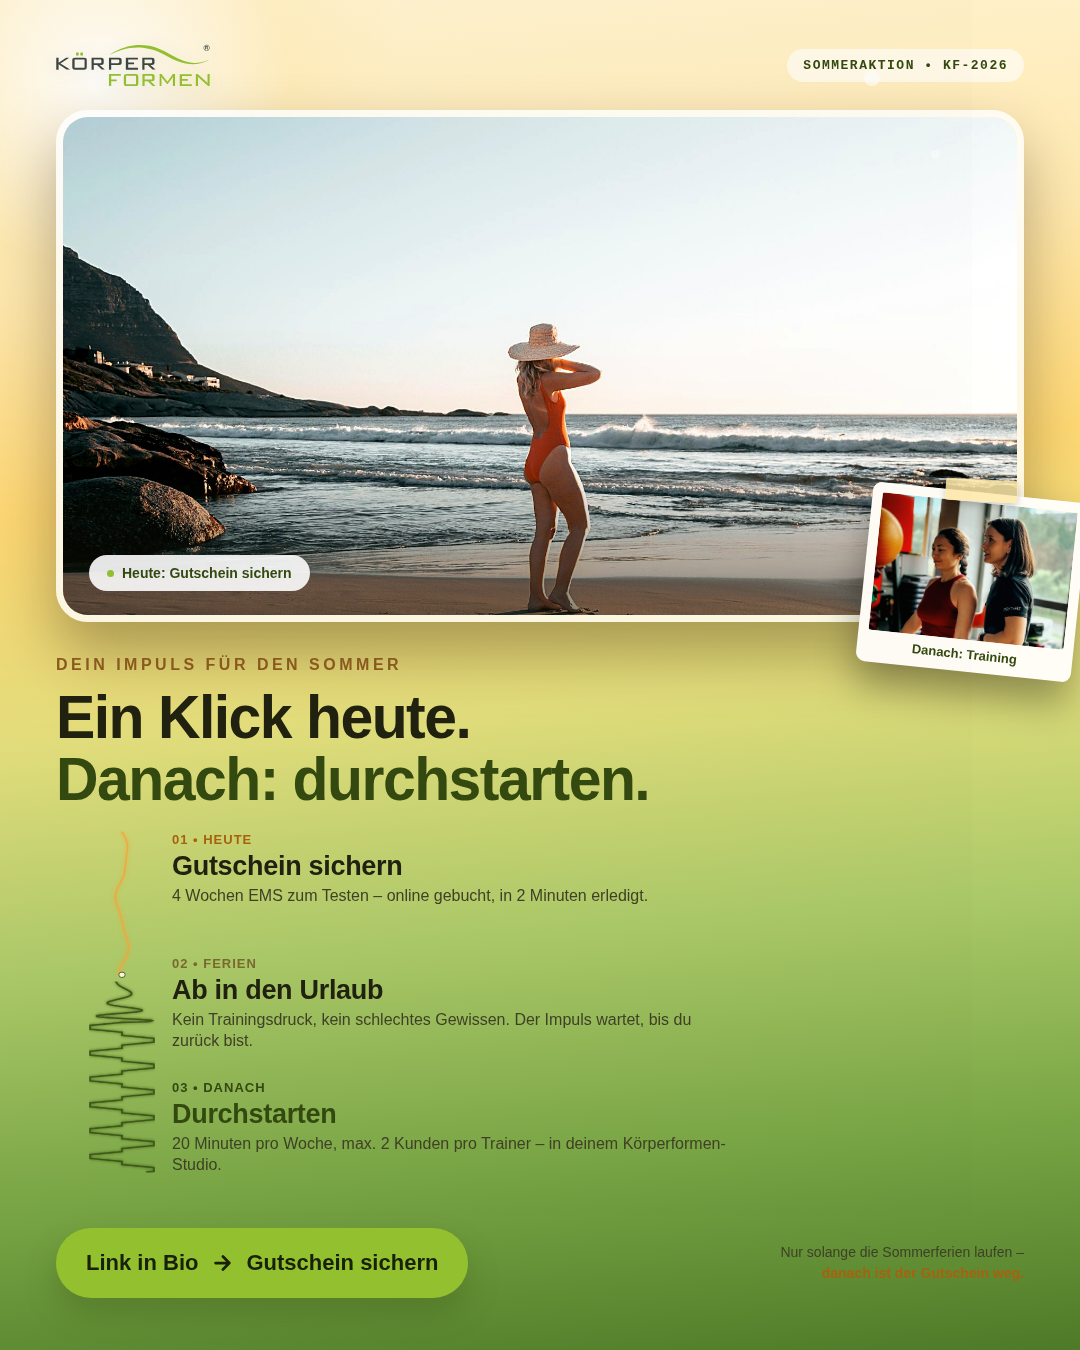
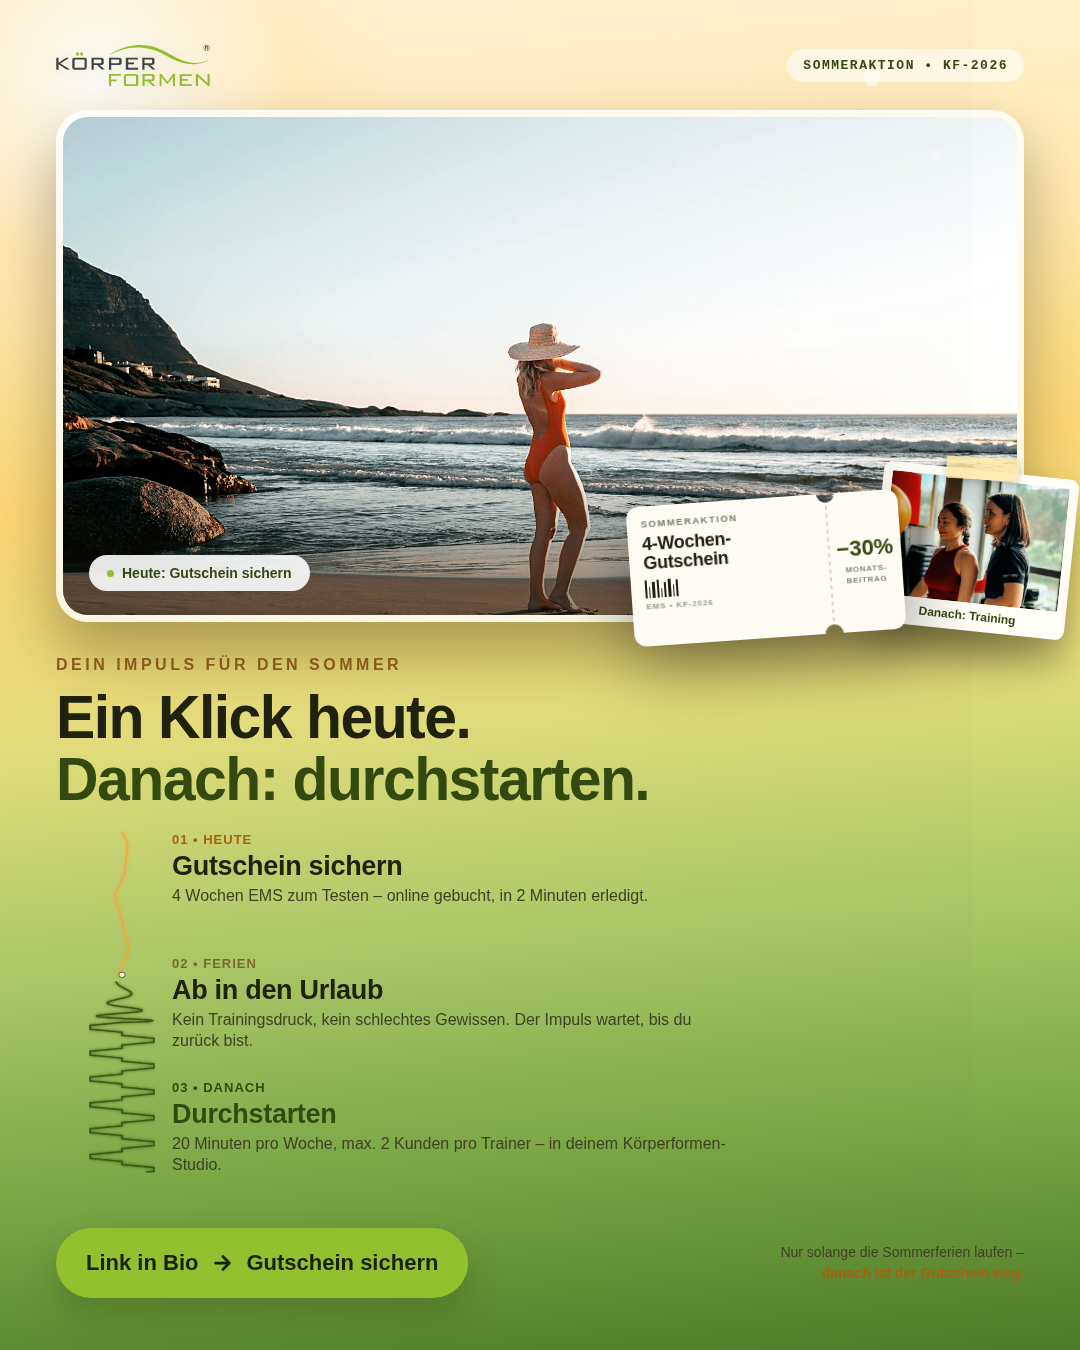
Creatives v7: Gutschein als physisches Ticket-Objekt in der Szene
Fügt allen drei Foto-Assets (Ad A, Social-Post, Landingpage-Hero) ein
gestaltetes Gutschein-Ticket hinzu: abgerundete Karte mit echter
Perforation (Rundungs-Ausstanzung per SVG-Maske), gestrichelter
Trennlinie, Barcode-Grafik und '-30%'-Abriss-Stub – liegt überlappend
mit dem angehefteten Trainingsfoto in der Szene, sodass die Idee
'hier gibt es einen Gutschein' sofort visuell verständlich ist statt
nur im Text behauptet zu werden.

Ad B bleibt unverändert (Geräte-Display-Konzept ohne Foto-Szene).

Claude-Session: https://claude.ai/code/session_01JznXpo8D9juT6Vm1g7afRx

Changed region(s): [[0.5806, 0.3111, 1.0, 0.5289]]

diff --git a/kampagnen/creatives/ad-a-boarding-pass.html b/kampagnen/creatives/ad-a-boarding-pass.html
@@ -31,12 +31,27 @@
   .badge .dot { width:7px; height:7px; border-radius:50%; background:var(--signal); box-shadow:0 0 8px var(--signal); }
 
   /* pinned snapshot */
-  .pin-wrap { position:absolute; top:140px; right:68px; width:300px; z-index:6; transform:rotate(6.5deg); }
-  .pin-card { background:#FFFDF6; border-radius:10px; padding:12px 12px 42px; box-shadow:0 26px 44px rgba(0,0,0,.4), 0 2px 0 rgba(255,255,255,.5) inset; }
-  .pin-card img { width:100%; height:196px; object-fit:cover; object-position:50% 22%; display:block; border-radius:2px; }
-  .pin-card .cap { position:absolute; left:22px; right:22px; bottom:14px; font-size:15px; font-weight:bold; color:var(--signal-deep); text-align:center; letter-spacing:.2px; }
-  .pin-tape { position:absolute; top:-16px; left:50%; transform:translateX(-50%) rotate(-3deg); width:96px; height:30px;
+  .pin-wrap { position:absolute; top:118px; right:96px; width:254px; z-index:6; transform:rotate(7deg); }
+  .pin-card { background:#FFFDF6; border-radius:10px; padding:11px 11px 38px; box-shadow:0 26px 44px rgba(0,0,0,.4), 0 2px 0 rgba(255,255,255,.5) inset; }
+  .pin-card img { width:100%; height:166px; object-fit:cover; object-position:50% 22%; display:block; border-radius:2px; }
+  .pin-card .cap { position:absolute; left:20px; right:20px; bottom:12px; font-size:14px; font-weight:bold; color:var(--signal-deep); text-align:center; letter-spacing:.2px; }
+  .pin-tape { position:absolute; top:-15px; left:50%; transform:translateX(-50%) rotate(-3deg); width:86px; height:27px;
     background:rgba(255,233,168,.85); box-shadow:0 4px 8px rgba(0,0,0,.2); border-radius:2px; }
+
+  /* voucher / ticket */
+  .voucher { position:absolute; top:322px; right:40px; width:390px; height:196px; z-index:7;
+    transform:rotate(-4.5deg); filter:drop-shadow(0 24px 40px rgba(0,0,0,.45)); }
+  .voucher-bg { position:absolute; inset:0; }
+  .v-main { position:absolute; left:0; top:0; width:288px; height:100%; padding:17px 20px; color:var(--ink); }
+  .v-kick { font-size:12px; letter-spacing:2px; font-weight:bold; color:#7c7e68; margin-bottom:9px; }
+  .v-title { font-size:27px; font-weight:800; line-height:1.05; letter-spacing:-.5px; margin-bottom:12px; }
+  .v-barcode { display:flex; align-items:flex-end; gap:2.4px; height:28px; }
+  .v-barcode i { display:block; background:var(--ink); width:2.6px; }
+  .v-code { font-size:10px; letter-spacing:1.4px; color:#9a9c88; margin-top:5px; font-weight:bold; }
+  .v-stub { position:absolute; left:288px; top:0; width:102px; height:100%; display:flex; flex-direction:column;
+    align-items:center; justify-content:center; text-align:center; }
+  .v-pct { font-size:32px; font-weight:800; color:var(--signal-deep); line-height:1; }
+  .v-sub { font-size:10px; letter-spacing:1px; color:#8a8c78; margin-top:7px; line-height:1.35; font-weight:bold; }
 
   .content { position:absolute; left:0; right:0; bottom:0; z-index:5; padding:0 56px 52px; }
   .kick { font-size:16px; letter-spacing:4px; color:var(--gold); font-weight:bold; margin-bottom:14px; display:flex; align-items:center; gap:10px; }
@@ -78,6 +93,37 @@
       <div class="pin-tape"></div>
       <img src="foto-training.jpg" alt="Personal Training bei Körperformen" style="object-position:50% 30%">
       <div class="cap">Danach: Training</div>
+    </div>
+  </div>
+
+  <div class="voucher">
+    <svg class="voucher-bg" viewBox="0 0 390 196" width="390" height="196">
+      <defs>
+        <mask id="tmaskA">
+          <rect x="0" y="0" width="390" height="196" rx="16" fill="white"/>
+          <circle cx="288" cy="0" r="12" fill="black"/>
+          <circle cx="288" cy="196" r="12" fill="black"/>
+        </mask>
+      </defs>
+      <rect x="0" y="0" width="390" height="196" rx="16" fill="#FFFDF6" mask="url(#tmaskA)"/>
+      <line x1="288" y1="18" x2="288" y2="178" stroke="#cfd0ba" stroke-width="2" stroke-dasharray="5 5"/>
+    </svg>
+    <div class="v-main">
+      <div class="v-kick">SOMMERAKTION &#8226; KF-2026</div>
+      <div class="v-title">4-Wochen-<br>Gutschein</div>
+      <div class="v-barcode">
+        <i style="height:100%"></i><i style="height:60%"></i><i style="height:90%;width:4.4px"></i>
+        <i style="height:100%"></i><i style="height:50%"></i><i style="height:80%"></i>
+        <i style="height:100%;width:4.4px"></i><i style="height:65%"></i><i style="height:95%"></i>
+        <i style="height:55%"></i><i style="height:100%"></i><i style="height:70%"></i>
+        <i style="height:90%"></i><i style="height:100%;width:4.4px"></i><i style="height:60%"></i>
+        <i style="height:85%"></i><i style="height:100%"></i><i style="height:50%"></i>
+      </div>
+      <div class="v-code">EMS &#8226; EINLÖSBAR IM STUDIO</div>
+    </div>
+    <div class="v-stub">
+      <div class="v-pct">&minus;30%</div>
+      <div class="v-sub">MONATS-<br>BEITRAG</div>
     </div>
   </div>
 

diff --git a/kampagnen/creatives/landingpage-hero.html b/kampagnen/creatives/landingpage-hero.html
@@ -53,12 +53,27 @@
     box-shadow:0 8px 18px rgba(40,30,10,.25); }
 
   /* pinned snapshot */
-  .pin-wrap { position:absolute; left:760px; top:478px; width:236px; z-index:5; transform:rotate(-7deg); }
-  .pin-card { background:#FFFDF6; border-radius:9px; padding:10px 10px 34px; box-shadow:0 24px 40px rgba(0,0,0,.35), 0 2px 0 rgba(255,255,255,.5) inset; }
-  .pin-card img { width:100%; height:150px; object-fit:cover; object-position:50% 24%; display:block; border-radius:2px; }
-  .pin-card .cap { position:absolute; left:16px; right:16px; bottom:11px; font-size:13px; font-weight:bold; color:var(--signal-deep); text-align:center; }
-  .pin-tape { position:absolute; top:-14px; left:50%; transform:translateX(-50%) rotate(3deg); width:78px; height:24px;
+  .pin-wrap { position:absolute; left:756px; top:452px; width:210px; z-index:5; transform:rotate(-8deg); }
+  .pin-card { background:#FFFDF6; border-radius:9px; padding:9px 9px 30px; box-shadow:0 24px 40px rgba(0,0,0,.35), 0 2px 0 rgba(255,255,255,.5) inset; }
+  .pin-card img { width:100%; height:132px; object-fit:cover; object-position:50% 24%; display:block; border-radius:2px; }
+  .pin-card .cap { position:absolute; left:14px; right:14px; bottom:9px; font-size:12px; font-weight:bold; color:var(--signal-deep); text-align:center; }
+  .pin-tape { position:absolute; top:-13px; left:50%; transform:translateX(-50%) rotate(3deg); width:70px; height:22px;
     background:rgba(255,233,168,.85); box-shadow:0 3px 7px rgba(0,0,0,.2); border-radius:2px; }
+
+  /* voucher / ticket */
+  .voucher { position:absolute; left:900px; top:468px; width:308px; height:158px; z-index:6;
+    transform:rotate(4deg); filter:drop-shadow(0 20px 34px rgba(0,0,0,.4)); }
+  .voucher-bg { position:absolute; inset:0; }
+  .v-main { position:absolute; left:0; top:0; width:228px; height:100%; padding:13px 15px; color:var(--ink); }
+  .v-kick { font-size:10px; letter-spacing:1.6px; font-weight:bold; color:#7c7e68; margin-bottom:6px; }
+  .v-title { font-size:20px; font-weight:800; line-height:1.05; letter-spacing:-.4px; margin-bottom:8px; }
+  .v-barcode { display:flex; align-items:flex-end; gap:2px; height:20px; }
+  .v-barcode i { display:block; background:var(--ink); width:2px; }
+  .v-code { font-size:8.5px; letter-spacing:1px; color:#9a9c88; margin-top:4px; font-weight:bold; }
+  .v-stub { position:absolute; left:228px; top:0; width:80px; height:100%; display:flex; flex-direction:column;
+    align-items:center; justify-content:center; text-align:center; }
+  .v-pct { font-size:25px; font-weight:800; color:var(--signal-deep); line-height:1; }
+  .v-sub { font-size:8.5px; letter-spacing:.8px; color:#8a8c78; margin-top:5px; line-height:1.3; font-weight:bold; }
 
   .wave-wrap { position:absolute; left:70px; right:70px; bottom:72px; height:68px; z-index:2; }
   .wave-wrap svg { width:100%; height:100%; display:block; overflow:visible; }
@@ -111,6 +126,35 @@
       <div class="pin-tape"></div>
       <img src="foto-training.jpg" alt="Personal Training bei Körperformen" style="object-position:50% 28%">
       <div class="cap">Danach: Training</div>
+    </div>
+  </div>
+
+  <div class="voucher">
+    <svg class="voucher-bg" viewBox="0 0 308 158" width="308" height="158">
+      <defs>
+        <mask id="tmaskL">
+          <rect x="0" y="0" width="308" height="158" rx="13" fill="white"/>
+          <circle cx="228" cy="0" r="10" fill="black"/>
+          <circle cx="228" cy="158" r="10" fill="black"/>
+        </mask>
+      </defs>
+      <rect x="0" y="0" width="308" height="158" rx="13" fill="#FFFDF6" mask="url(#tmaskL)"/>
+      <line x1="228" y1="14" x2="228" y2="144" stroke="#cfd0ba" stroke-width="1.6" stroke-dasharray="4 4"/>
+    </svg>
+    <div class="v-main">
+      <div class="v-kick">SOMMERAKTION</div>
+      <div class="v-title">4-Wochen-<br>Gutschein</div>
+      <div class="v-barcode">
+        <i style="height:100%"></i><i style="height:60%"></i><i style="height:90%;width:3.4px"></i>
+        <i style="height:100%"></i><i style="height:50%"></i><i style="height:80%"></i>
+        <i style="height:100%;width:3.4px"></i><i style="height:65%"></i><i style="height:95%"></i>
+        <i style="height:55%"></i><i style="height:100%"></i><i style="height:70%"></i>
+      </div>
+      <div class="v-code">EMS &#8226; KF-2026</div>
+    </div>
+    <div class="v-stub">
+      <div class="v-pct">&minus;30%</div>
+      <div class="v-sub">MONATS-<br>BEITRAG</div>
     </div>
   </div>
 

diff --git a/kampagnen/creatives/social-sommer-plan.html b/kampagnen/creatives/social-sommer-plan.html
@@ -37,10 +37,25 @@
     border-radius:999px; padding:10px 18px; font-size:14px; font-weight:bold; color:#FFF6E2; }
 
   /* pinned snapshot */
-  .pin-wrap { position:absolute; left:864px; top:492px; width:216px; z-index:5; transform:rotate(6deg); }
-  .pin-card { background:#FFFDF6; border-radius:9px; padding:10px 10px 32px; box-shadow:0 22px 38px rgba(0,0,0,.35), 0 2px 0 rgba(255,255,255,.5) inset; }
-  .pin-card img { width:100%; height:138px; object-fit:cover; object-position:50% 28%; display:block; border-radius:2px; }
-  .pin-card .cap { position:absolute; left:14px; right:14px; bottom:10px; font-size:13px; font-weight:bold; color:var(--signal-deep); text-align:center; }
+  .pin-wrap { position:absolute; left:876px; top:470px; width:196px; z-index:5; transform:rotate(6deg); }
+  .pin-card { background:#FFFDF6; border-radius:9px; padding:9px 9px 28px; box-shadow:0 22px 38px rgba(0,0,0,.35), 0 2px 0 rgba(255,255,255,.5) inset; }
+  .pin-card img { width:100%; height:124px; object-fit:cover; object-position:50% 28%; display:block; border-radius:2px; }
+  .pin-card .cap { position:absolute; left:12px; right:12px; bottom:8px; font-size:12px; font-weight:bold; color:var(--signal-deep); text-align:center; }
+
+  /* voucher / ticket */
+  .voucher { position:absolute; left:630px; top:498px; width:272px; height:140px; z-index:6;
+    transform:rotate(-4deg); filter:drop-shadow(0 20px 34px rgba(0,0,0,.4)); }
+  .voucher-bg { position:absolute; inset:0; }
+  .v-main { position:absolute; left:0; top:0; width:200px; height:100%; padding:12px 14px; color:var(--ink); }
+  .v-kick { font-size:9.5px; letter-spacing:1.5px; font-weight:bold; color:#7c7e68; margin-bottom:6px; }
+  .v-title { font-size:18px; font-weight:800; line-height:1.05; letter-spacing:-.3px; margin-bottom:7px; }
+  .v-barcode { display:flex; align-items:flex-end; gap:1.8px; height:18px; }
+  .v-barcode i { display:block; background:var(--ink); width:1.8px; }
+  .v-code { font-size:8px; letter-spacing:.9px; color:#9a9c88; margin-top:4px; font-weight:bold; }
+  .v-stub { position:absolute; left:200px; top:0; width:72px; height:100%; display:flex; flex-direction:column;
+    align-items:center; justify-content:center; text-align:center; }
+  .v-pct { font-size:22px; font-weight:800; color:var(--signal-deep); line-height:1; }
+  .v-sub { font-size:8px; letter-spacing:.7px; color:#8a8c78; margin-top:5px; line-height:1.3; font-weight:bold; }
   .pin-tape { position:absolute; top:-13px; left:50%; transform:translateX(-50%) rotate(-3deg); width:72px; height:22px;
     background:rgba(255,233,168,.85); box-shadow:0 3px 7px rgba(0,0,0,.2); border-radius:2px; }
 
@@ -94,6 +109,34 @@
       <div class="pin-tape"></div>
       <img src="foto-training.jpg" alt="Personal Training bei Körperformen">
       <div class="cap">Danach: Training</div>
+    </div>
+  </div>
+
+  <div class="voucher">
+    <svg class="voucher-bg" viewBox="0 0 272 140" width="272" height="140">
+      <defs>
+        <mask id="tmaskS">
+          <rect x="0" y="0" width="272" height="140" rx="12" fill="white"/>
+          <circle cx="200" cy="0" r="9" fill="black"/>
+          <circle cx="200" cy="140" r="9" fill="black"/>
+        </mask>
+      </defs>
+      <rect x="0" y="0" width="272" height="140" rx="12" fill="#FFFDF6" mask="url(#tmaskS)"/>
+      <line x1="200" y1="12" x2="200" y2="128" stroke="#cfd0ba" stroke-width="1.5" stroke-dasharray="4 4"/>
+    </svg>
+    <div class="v-main">
+      <div class="v-kick">SOMMERAKTION</div>
+      <div class="v-title">4-Wochen-<br>Gutschein</div>
+      <div class="v-barcode">
+        <i style="height:100%"></i><i style="height:60%"></i><i style="height:90%;width:3px"></i>
+        <i style="height:100%"></i><i style="height:50%"></i><i style="height:80%"></i>
+        <i style="height:100%;width:3px"></i><i style="height:65%"></i><i style="height:95%"></i>
+      </div>
+      <div class="v-code">EMS &#8226; KF-2026</div>
+    </div>
+    <div class="v-stub">
+      <div class="v-pct">&minus;30%</div>
+      <div class="v-sub">MONATS-<br>BEITRAG</div>
     </div>
   </div>
 
